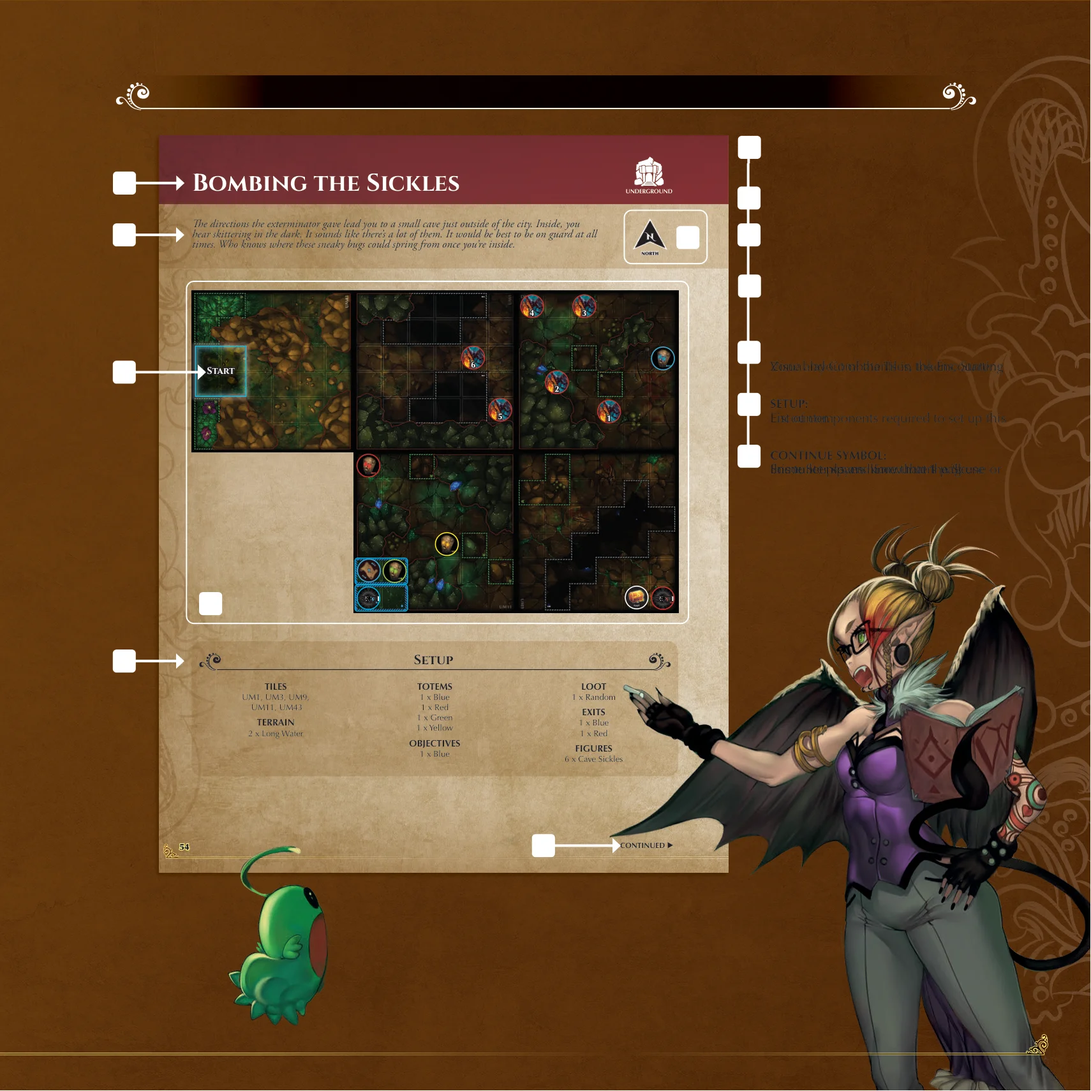
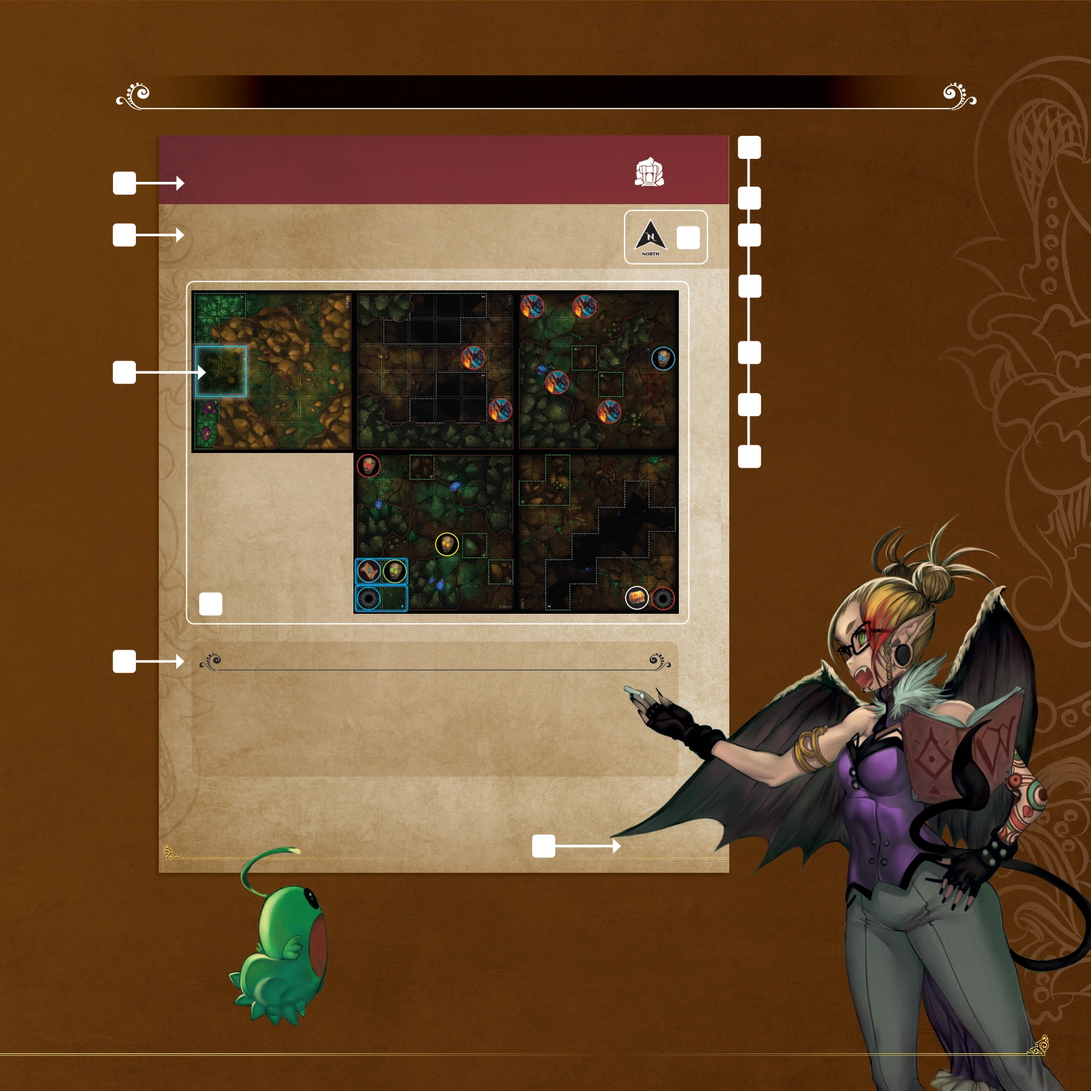
fix(page15): clean legend text ghosts from background

diff --git a/scripts/repair_page015_background_ghosts.py b/scripts/repair_page015_background_ghosts.py
@@ -1,0 +1,114 @@
+"""Rebuild p.15's background with source PDF text removed as objects.
+
+The legacy page-background extractor strips ``BT … ET`` byte ranges from PDF
+streams. On page 15 that leaves dark, misaligned glyphs beneath the editable
+white legend text. This page-scoped repair redacts only text objects in memory;
+images and vector drawings stay intact. The inset illustration is restored by
+the existing fidelity overlay, while live page text remains in the DOM.
+
+Run without --apply to write a review PNG under tmp/. Add --apply only after
+comparing that render with the official PDF; it replaces background.webp.
+"""
+
+from __future__ import annotations
+
+import argparse
+from pathlib import Path
+
+import pymupdf
+from PIL import Image
+
+
+ROOT = Path(__file__).resolve().parents[1]
+DEFAULT_PDF = Path(
+    r"C:\Users\bruno\Middara\Rulebook 1.2\Rulebook 1p2 Final Version 05-19-23 Optimized.pdf"
+)
+PAGE_NUMBER = 15
+EXPECTED_PAGE_SIZE = (820.3460083, 820.3460083)
+EXPECTED_TEXT_BLOCKS = 74
+REQUIRED_TEXT = (
+    "ENCOUNTER SETUP DIAGRAM:",
+    "SETUP:",
+    "CONTINUE SYMBOL:",
+)
+BACKGROUND = ROOT / "apps/web/public/pages/page_015/background.webp"
+PREVIEW = ROOT / "tmp/page15-clean-background-preview.png"
+
+
+def close(actual: float, expected: float, tolerance: float = 0.02) -> bool:
+    return abs(actual - expected) <= tolerance
+
+
+def render(pdf_path: Path, output: Path, *, apply: bool) -> tuple[int, int]:
+    if not pdf_path.is_file():
+        raise FileNotFoundError(pdf_path)
+    if not BACKGROUND.is_file():
+        raise FileNotFoundError(BACKGROUND)
+
+    with pymupdf.open(pdf_path) as document:
+        if document.page_count < PAGE_NUMBER:
+            raise ValueError(f"PDF has only {document.page_count} pages")
+        page = document[PAGE_NUMBER - 1]
+        page_size = (page.rect.width, page.rect.height)
+        if any(not close(a, b) for a, b in zip(page_size, EXPECTED_PAGE_SIZE)):
+            raise ValueError(f"Unexpected p.15 source dimensions: {page_size!r}")
+
+        source_text = page.get_text("text")
+        missing = [phrase for phrase in REQUIRED_TEXT if phrase not in source_text]
+        if missing:
+            raise ValueError(f"Source PDF does not contain expected legend text: {missing}")
+
+        text_blocks = [
+            block
+            for block in page.get_text("blocks")
+            if len(block) >= 5 and str(block[4]).strip()
+        ]
+        if len(text_blocks) != EXPECTED_TEXT_BLOCKS:
+            raise ValueError(
+                f"Expected {EXPECTED_TEXT_BLOCKS} source text blocks; found {len(text_blocks)}"
+            )
+
+        for block in text_blocks:
+            page.add_redact_annot(pymupdf.Rect(block[:4]), fill=None)
+        # Keep source images and vector art untouched; remove text objects only.
+        page.apply_redactions(images=0, graphics=0, text=0)
+        remaining = page.get_text("text")
+        if any(phrase in remaining for phrase in REQUIRED_TEXT):
+            raise ValueError("Legend text remains after the text-only redaction")
+
+        with Image.open(BACKGROUND) as reference:
+            width, height = reference.size
+        sx, sy = width / page.rect.width, height / page.rect.height
+        pixmap = page.get_pixmap(matrix=pymupdf.Matrix(sx, sy), alpha=False)
+        output.parent.mkdir(parents=True, exist_ok=True)
+
+        if apply:
+            image = Image.frombytes("RGB", (pixmap.width, pixmap.height), pixmap.samples)
+            # A high but lossy quality keeps the textured page compact and
+            # avoids the very slow lossless encode for this grain-heavy image.
+            image.save(BACKGROUND, format="WEBP", quality=94, method=2)
+            output_path = BACKGROUND
+        else:
+            pixmap.save(output)
+            output_path = output
+
+    return len(text_blocks), output_path.stat().st_size
+
+
+def main() -> None:
+    parser = argparse.ArgumentParser(description=__doc__)
+    parser.add_argument("--pdf", type=Path, default=DEFAULT_PDF)
+    parser.add_argument("--output", type=Path, default=PREVIEW)
+    parser.add_argument(
+        "--apply",
+        action="store_true",
+        help="replace page_015/background.webp after preview comparison",
+    )
+    args = parser.parse_args()
+    count, byte_size = render(args.pdf, args.output, apply=args.apply)
+    target = BACKGROUND if args.apply else args.output
+    print(f"p.15: removed {count} PDF text blocks; images/vector art preserved; output={target} ({byte_size} bytes)")
+
+
+if __name__ == "__main__":
+    main()
